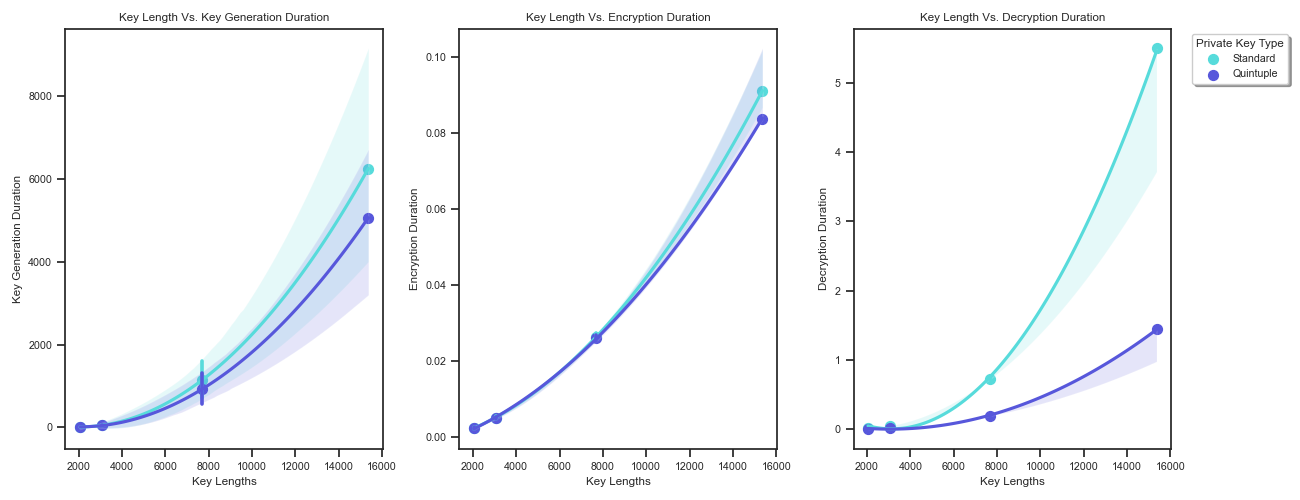
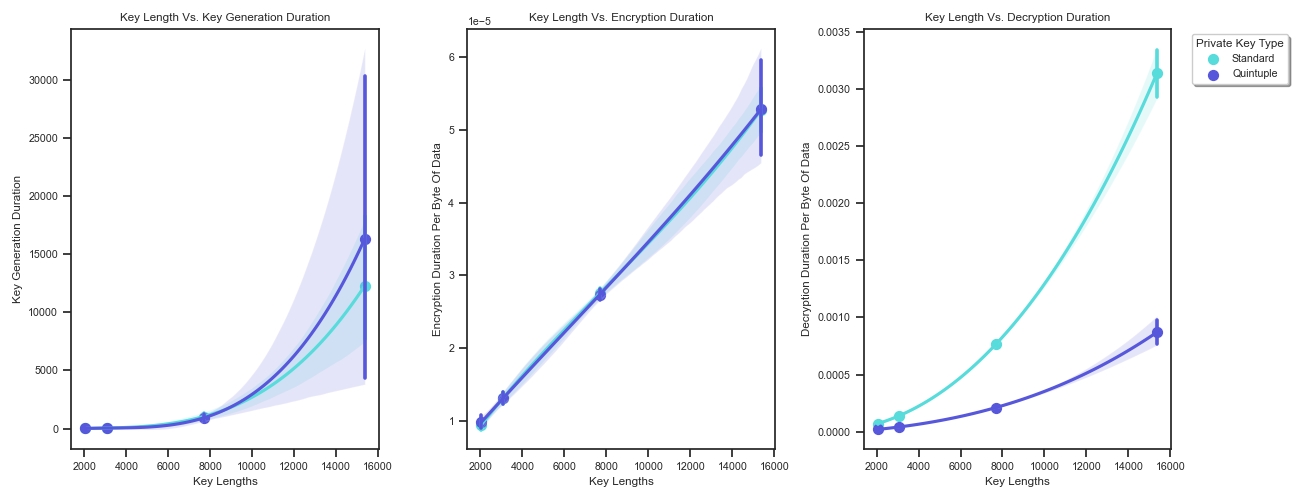
Updated RSA Key Generation durations graphs

diff --git a/CryptographySchemes/OutputImages/RSA_KeyGeneration_DurationGraphs.py b/CryptographySchemes/OutputImages/RSA_KeyGeneration_DurationGraphs.py
@@ -154,9 +154,9 @@ def verifyEncryptionDecryption(little_endian:bool, security_strength:int, nlen:i
         elif security_strength == SecurityStrength.s128.value.security_strength:
[1 lines of base64/hex data omitted]
         elif security_strength == SecurityStrength.s192.value.security_strength:
[2 lines of base64/hex data omitted]
         elif security_strength == SecurityStrength.s256.value.security_strength:
[2 lines of base64/hex data omitted]
         plain = IntegerHandler.fromHexString(pt, little_endian)
 
         # Run and time the encryption process
@@ -207,10 +207,20 @@ def add_key_length(row):
         row : Array
             The current row being processed from the dataframe
     '''
+
+    decryption_duration = row["Decryption"]
+    encryption_duration = row["Encryption"]
+    byte_length = 8
     security_strength = row["Security Strength"]
     for strength in SecurityStrength:
         if security_strength == strength.value.security_strength:
             nlen = strength.value.integer_factorization_cryptography
+    encryption_bytes = nlen // byte_length
+    encryption_duration_per_byte = encryption_duration / encryption_bytes
+    decryption_duration_per_byte = decryption_duration / encryption_bytes
+    
+    encryption_per_byte.append(encryption_duration_per_byte)
+    decryption_per_byte.append(decryption_duration_per_byte)
     nlens.append(nlen)
 
 def prepare_dataframe_from_csv():
@@ -225,71 +235,79 @@ def prepare_dataframe_from_csv():
     prime_df = prime_df.reset_index()
     prime_df.apply(add_key_length, axis=1)
     prime_df["Key Lengths"] = nlens
+    print(encryption_per_byte)
+    prime_df['Encryption Duration Per Byte Of Data'] = encryption_per_byte
+    prime_df['Decryption Duration Per Byte Of Data'] = decryption_per_byte
     prime_df = prime_df.rename(columns={'Encryption': 'Encryption Duration', 'Decryption': 'Decryption Duration', 'Generation Method':'Method'})
+    
     return prime_df
 
 if __name__ == '__main__':
+    
     file_lock = Lock()
     number_of_iterations = 1
-    # strengths_lists = [[SecurityStrength.s112.value],[SecurityStrength.s128.value],[SecurityStrength.s192.value],[SecurityStrength.s256.value]]
-    strengths_lists = [[SecurityStrength.s112.value],[SecurityStrength.s128.value]]
+    strengths_lists = [[SecurityStrength.s112.value],[SecurityStrength.s128.value],[SecurityStrength.s192.value],[SecurityStrength.s256.value]]
+    # strengths_lists = [[SecurityStrength.s192.value],[SecurityStrength.s256.value]]
     little_endian = False
     beginning_execution = time.time()
     m = Manager()
     file_lock = m.Lock()
+    generation_methods_abbreviated = [GenerationMethods.probably_prime, GenerationMethods.provably_prime]
 
     iterations_details:list[RSA_KeyGeneration_IterationDetails] = []
     for j in range (0, number_of_iterations):
         for i in range(0, len(strengths_lists)):
+            # for generation_method in generation_methods_abbreviated:
             for generation_method in GenerationMethods:
                 strengths = strengths_lists[i]
                 for strength in strengths:
                     for private_key_type in RSA_PrivateKey_Type:
                         iterations_details.append(RSA_KeyGeneration_IterationDetails(file_lock=file_lock, strength=strength,private_key_type=private_key_type.value,generation_method=generation_method))
 
-    with Pool(processes=5) as pool:
+    with Pool(processes=4) as pool:
         pool.map(time_key_generation,iterations_details)
     print(iterations_details)
     # time_key_generation(strength=strength,private_key_type=private_key_type.value,generation_method=generation_method)
     print(f"Total Time Elapsed During This Run : {time.time() - beginning_execution:.4f}")
-            
-    # nlens = []
-    # prime_df = prepare_dataframe_from_csv()
-
-    # standard_priv_df = prime_df[prime_df["Private Key Type"] == "Standard"]
-    # quintuple_priv_df = prime_df[prime_df["Private Key Type"] != "Standard"]
-
-    # bright_palette = sns.hls_palette(h=.5)
-    # sns.set_context("paper")
-    # sns.set_theme(style="ticks", palette=bright_palette, font_scale=.7)
     
-    # fig, axes = plt.subplots(nrows=1, ncols=3, sharey=False)
-    # fig.set_figwidth(13)
-    # fig.set_figheight(5)
+    nlens, encryption_per_byte, decryption_per_byte = [],[],[]
+    prime_df = prepare_dataframe_from_csv()
+    print(prime_df.info())
+
+    standard_priv_df = prime_df[prime_df["Private Key Type"] == "Standard"]
+    quintuple_priv_df = prime_df[prime_df["Private Key Type"] != "Standard"]
+
+    bright_palette = sns.hls_palette(h=.5)
+    sns.set_context("paper")
+    sns.set_theme(style="ticks", palette=bright_palette, font_scale=.7)
+    
+    fig, axes = plt.subplots(nrows=1, ncols=3, sharey=False)
+    fig.set_figwidth(13)
+    fig.set_figheight(5)
 
 
-    # axes[0].set_title('Key Length Vs. Key Generation Duration')
-    # # sns.regplot(data=prime_df, x="Key Lengths", y="Key Generation Duration", x_estimator=np.mean, ax=axes[0], order=2, color=bright_palette[2])
-    # sns.regplot(data=standard_priv_df, x="Key Lengths", y="Key Generation Duration", x_estimator=np.mean, ax=axes[0], order=2, color=bright_palette[0], label = "Standard")
-    # sns.regplot(data=quintuple_priv_df, x="Key Lengths", y="Key Generation Duration", x_estimator=np.mean, ax=axes[0], order=2, color=bright_palette[1], label = "Quintuple")
-    # # plt.legend(loc="upper left",shadow=True,title = "Private Key Type")
+    axes[0].set_title('Key Length Vs. Key Generation Duration')
+    # sns.regplot(data=prime_df, x="Key Lengths", y="Key Generation Duration", x_estimator=np.mean, ax=axes[0], order=2, color=bright_palette[2])
+    sns.regplot(data=standard_priv_df, x="Key Lengths", y="Key Generation Duration", x_estimator=np.mean, ax=axes[0], order=3, color=bright_palette[0], label = "Standard")
+    sns.regplot(data=quintuple_priv_df, x="Key Lengths", y="Key Generation Duration", x_estimator=np.mean, ax=axes[0], order=3, color=bright_palette[1], label = "Quintuple")
+    # plt.legend(loc="upper left",shadow=True,title = "Private Key Type")
 
-    # axes[1].set_title('Key Length Vs. Encryption Duration')
-    # # sns.scatterplot(data=prime_df, x="Key Lengths", y="Encryption Duration", hue="Private Key Type", style="Private Key Type", ax=axes[1], palette=bright_palette, markers=["o", "s"], alpha = .5)
-    # sns.regplot(data=standard_priv_df, x="Key Lengths", y="Encryption Duration", x_estimator=np.mean, ax=axes[1], order=2, color=bright_palette[0], label = "Standard")
-    # sns.regplot(data=quintuple_priv_df, x="Key Lengths", y="Encryption Duration", x_estimator=np.mean, ax=axes[1], order=2, color=bright_palette[1], label = "Quintuple")
-    # # plt.legend(loc="upper left",shadow=True,title = "Private Key Type")
+    axes[1].set_title('Key Length Vs. Encryption Duration')
+    # sns.scatterplot(data=prime_df, x="Key Lengths", y="Encryption Duration", hue="Private Key Type", style="Private Key Type", ax=axes[1], palette=bright_palette, markers=["o", "s"], alpha = .5)
+    sns.regplot(data=standard_priv_df, x="Key Lengths", y="Encryption Duration Per Byte Of Data", x_estimator=np.mean, ax=axes[1], order=3, color=bright_palette[0], label = "Standard")
+    sns.regplot(data=quintuple_priv_df, x="Key Lengths", y="Encryption Duration Per Byte Of Data", x_estimator=np.mean, ax=axes[1], order=3, color=bright_palette[1], label = "Quintuple")
+    # plt.legend(loc="upper left",shadow=True,title = "Private Key Type")
 
-    # axes[2].set_title('Key Length Vs. Decryption Duration')
-    # # sns.scatterplot(data=prime_df, x="Key Lengths", y="Decryption Duration", hue="Private Key Type", style="Private Key Type", ax=axes[2], palette=bright_palette, markers=["o", "s"], alpha = .5)
-    # sns.regplot(data=standard_priv_df, x="Key Lengths", y="Decryption Duration", x_estimator=np.mean, ax=axes[2], order=2, color=bright_palette[0], label = "Standard")
-    # sns.regplot(data=quintuple_priv_df, x="Key Lengths", y="Decryption Duration", x_estimator=np.mean, ax=axes[2], order=2, color=bright_palette[1], label = "Quintuple")
-    # plt.legend(loc="upper left",shadow=True,title = "Private Key Type",bbox_to_anchor=(1.05, 1))
-    # plt.tight_layout()
-    # plt.show()
+    axes[2].set_title('Key Length Vs. Decryption Duration')
+    # sns.scatterplot(data=prime_df, x="Key Lengths", y="Decryption Duration", hue="Private Key Type", style="Private Key Type", ax=axes[2], palette=bright_palette, markers=["o", "s"], alpha = .5)
+    sns.regplot(data=standard_priv_df, x="Key Lengths", y="Decryption Duration Per Byte Of Data", x_estimator=np.mean, ax=axes[2], order=3, color=bright_palette[0], label = "Standard")
+    sns.regplot(data=quintuple_priv_df, x="Key Lengths", y="Decryption Duration Per Byte Of Data", x_estimator=np.mean, ax=axes[2], order=3, color=bright_palette[1], label = "Quintuple")
+    plt.legend(loc="upper left",shadow=True,title = "Private Key Type",bbox_to_anchor=(1.05, 1))
+    plt.tight_layout()
+    plt.show()
 
-    # abreviated_df = prime_df[prime_df["Key Lengths"] != SecurityStrength.s256.value.integer_factorization_cryptography]
-    # sns.lmplot(x="Key Lengths", y="Key Generation Duration", hue="Method", col="Method", data=abreviated_df,order=2, height=4, x_estimator=np.mean, legend_out=True, legend=True)
-    # # plt.legend(loc="upper left",shadow=True,title = "Prime Generation Method",bbox_to_anchor=(1.05, 1)) 
-    # plt.tight_layout()
-    # plt.show()
+    abreviated_df = prime_df[prime_df["Key Lengths"] != SecurityStrength.s256.value.integer_factorization_cryptography]
+    sns.lmplot(x="Key Lengths", y="Key Generation Duration", hue="Method", col="Method", data=prime_df,order=3, height=4, x_estimator=np.mean, legend_out=True, legend=True)
+    # plt.legend(loc="upper left",shadow=True,title = "Prime Generation Method",bbox_to_anchor=(1.05, 1)) 
+    plt.tight_layout()
+    plt.show()
